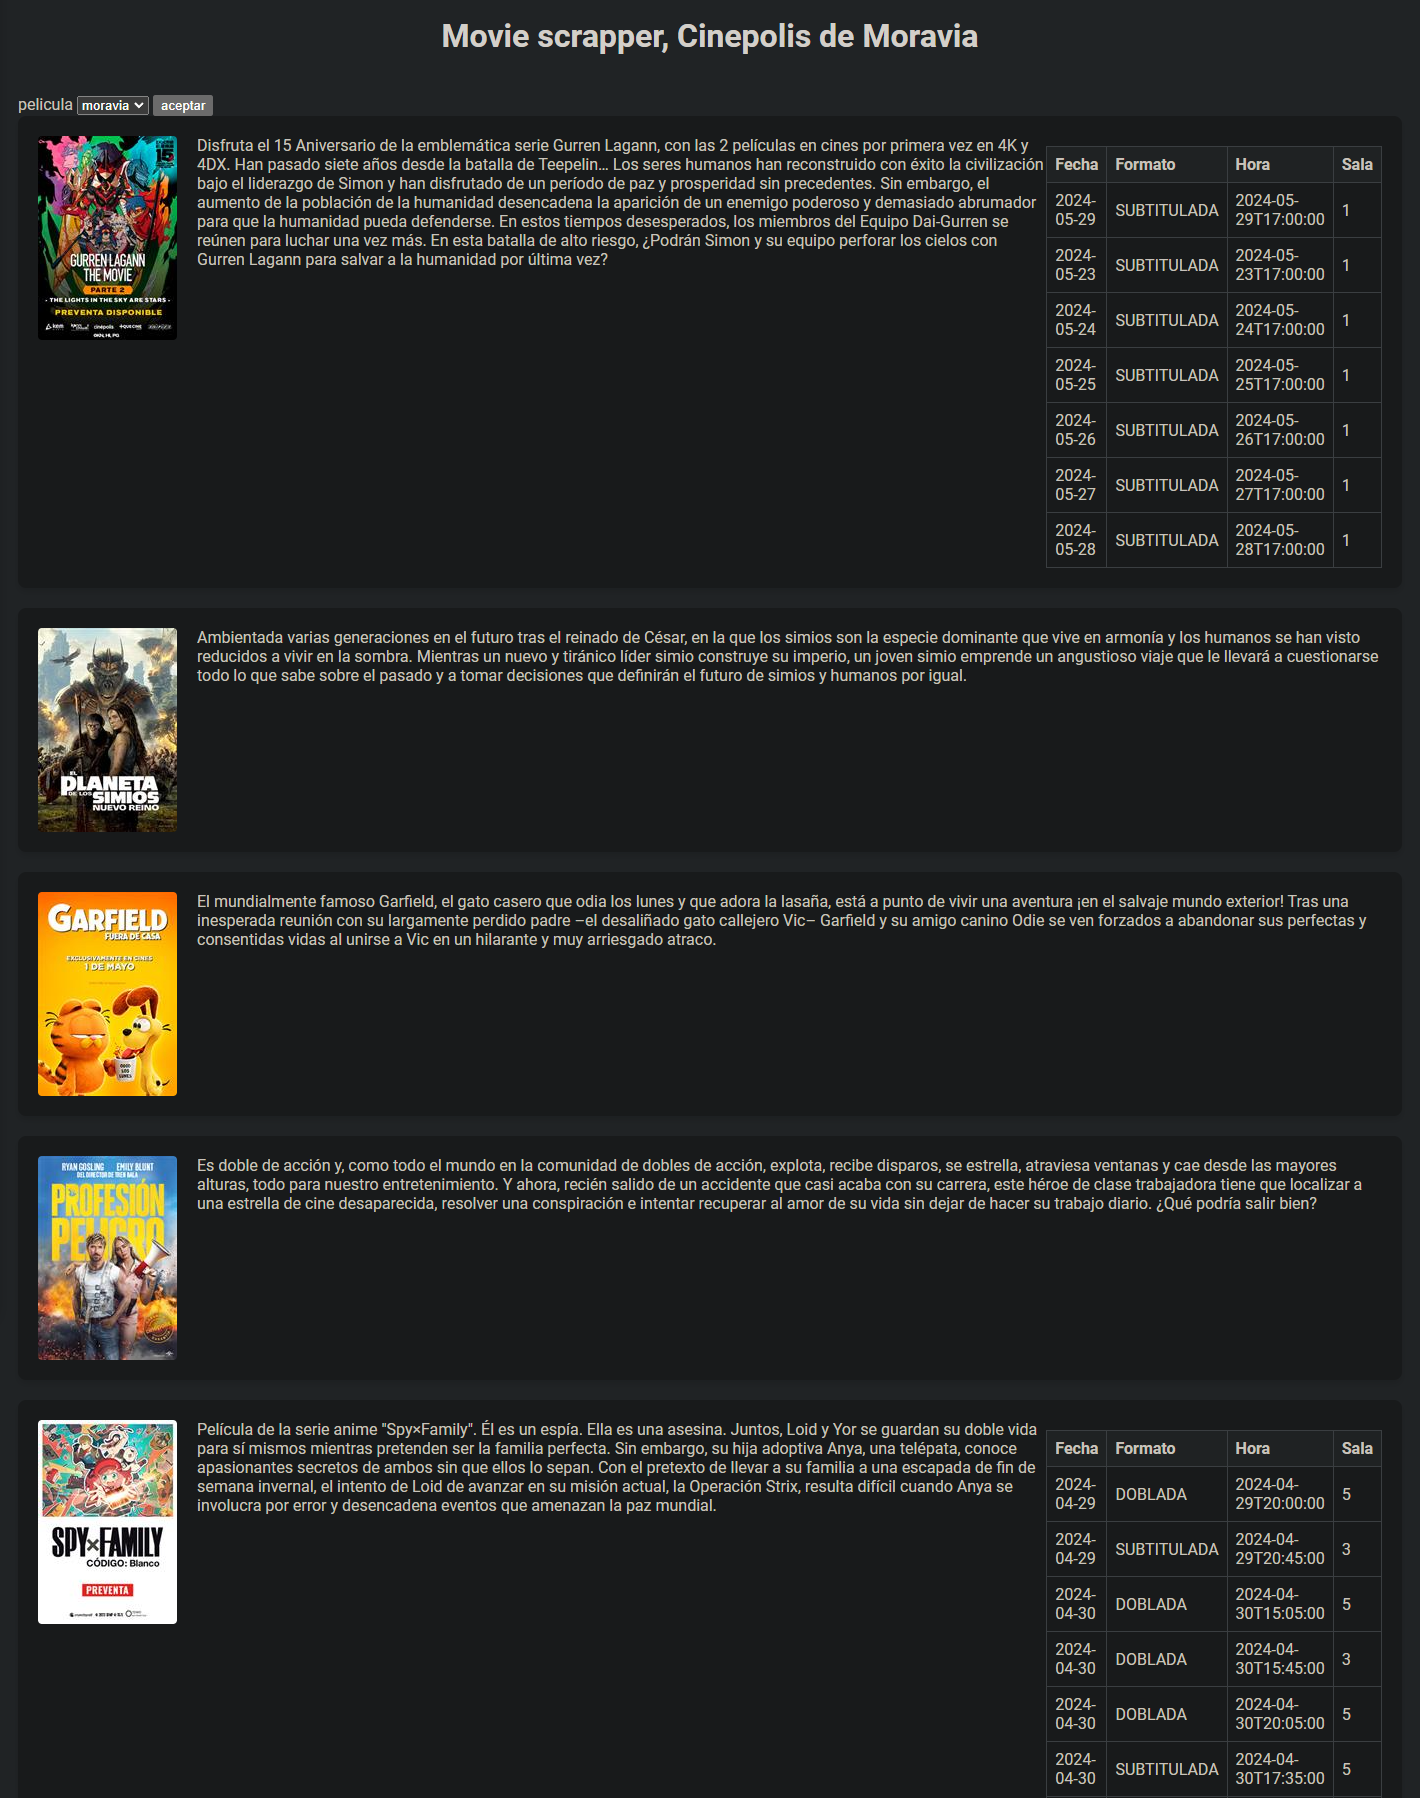
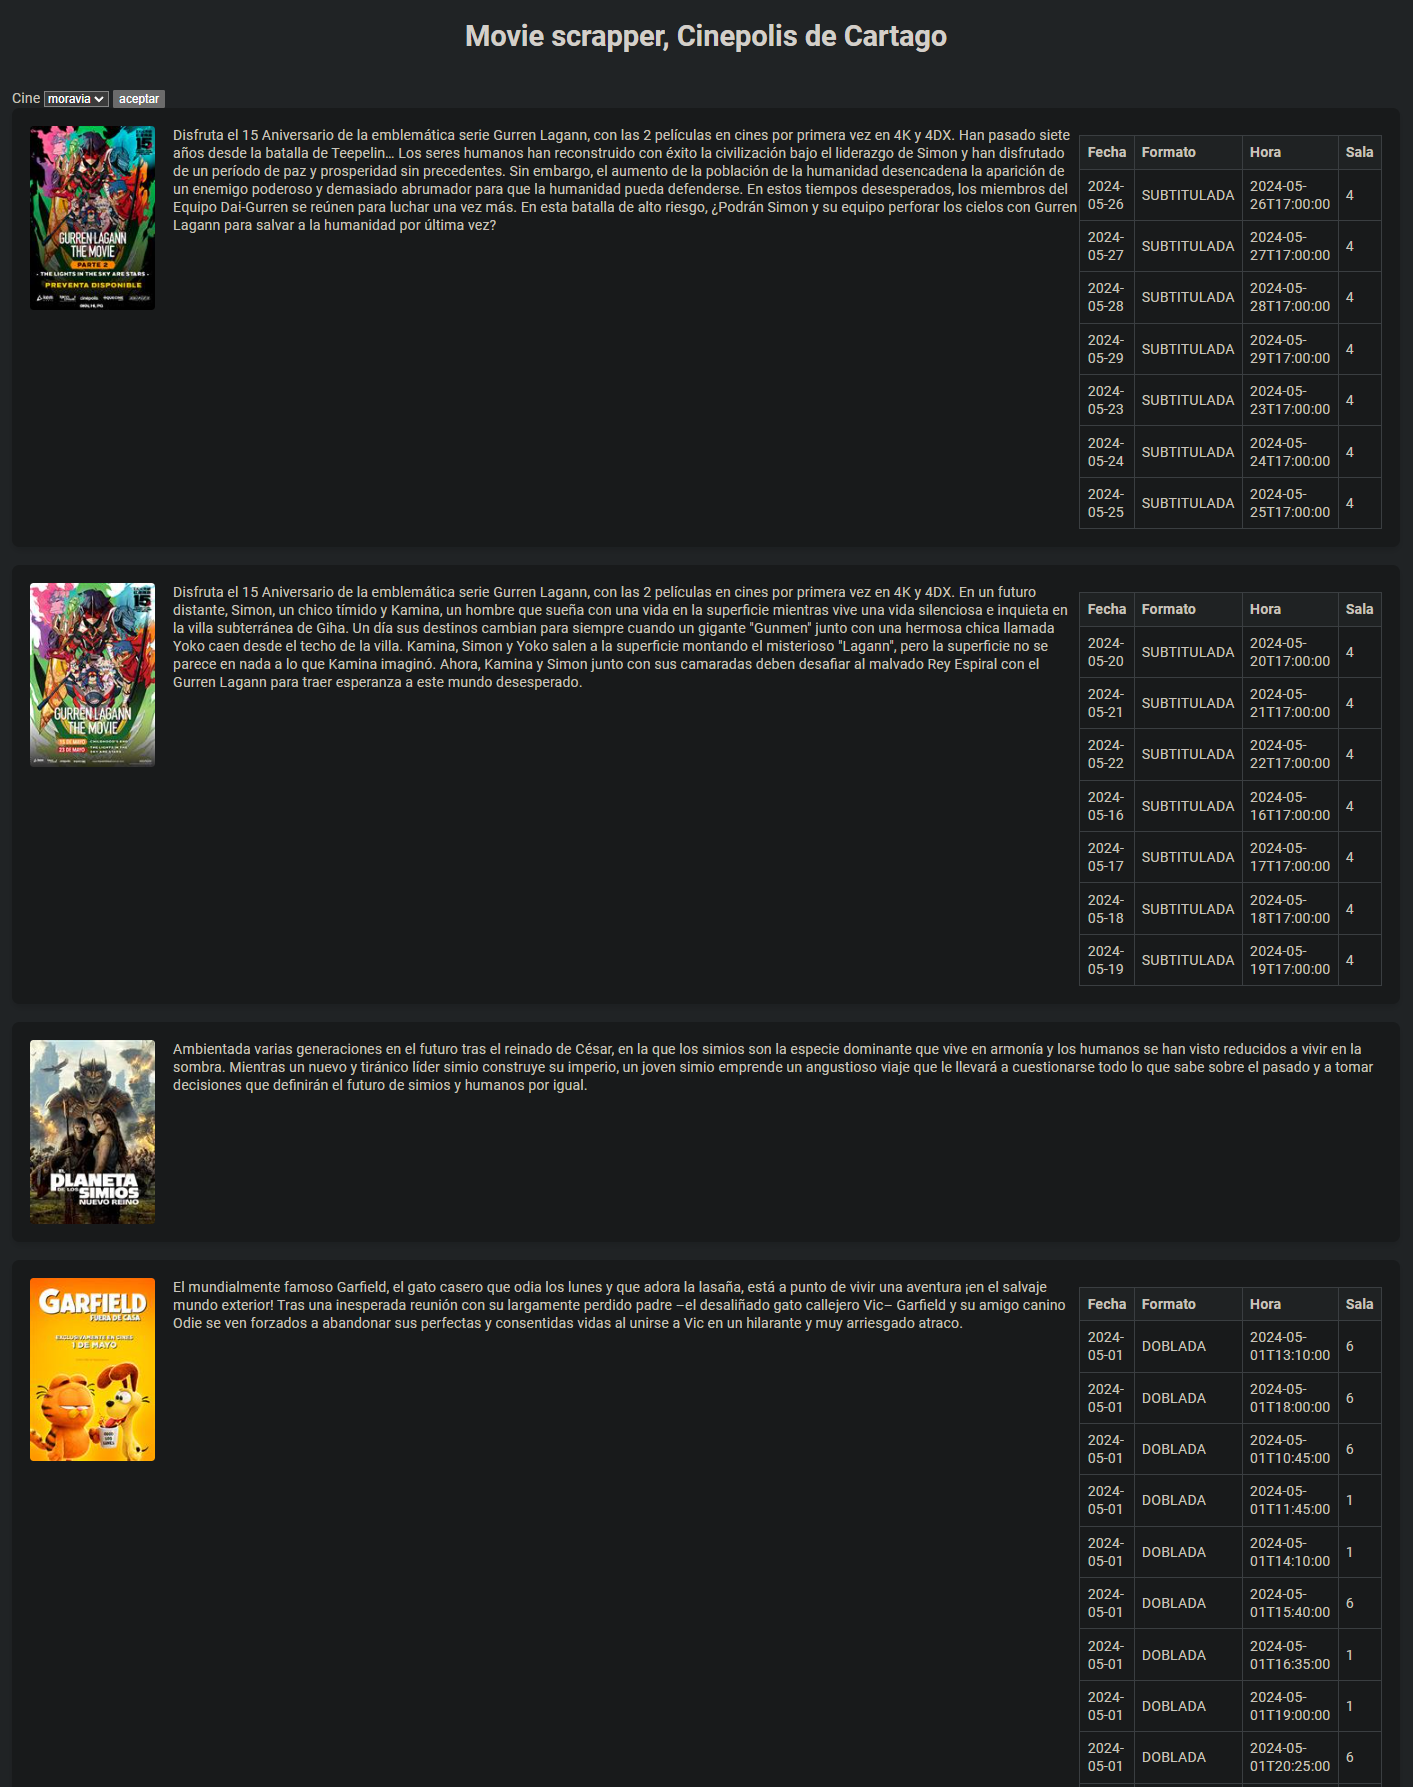
Update cinema label in movie scrapper page

Changed region(s): [[0.0, 0.3078, 0.9653, 1.0], [0.0, 0.0308, 0.9653, 0.3078], [0.3114, 0.0, 0.6851, 0.0308]]

diff --git a/movie_view/templates/home.html b/movie_view/templates/home.html
@@ -72,7 +72,7 @@
     <h1>Movie scrapper, Cinepolis de  {{ cinema_name }}</h1>
     <form action="/" method="POST">
         {% csrf_token %}
-        <label for="pelicula">pelicula</label>
+        <label for="pelicula">Cine</label>
         <select id="pelicula" name="pelicula">
             <option value="490">moravia</option>
             <option value="251">cartago</option>
